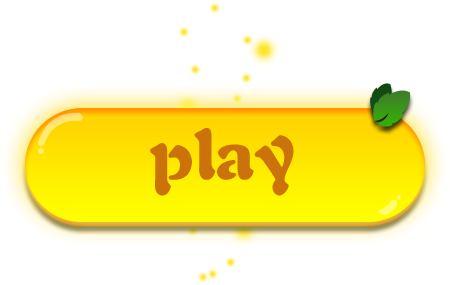
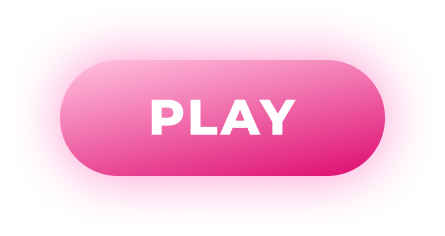
Updated splash screen. Deleted useless files.

diff --git a/src/scenes/splash_screen.js b/src/scenes/splash_screen.js
@@ -15,6 +15,7 @@ export default class SplashScreen extends Phaser.Scene {
         console.log("splash_screen - Executing preload()");
         // Carichiamo gli asset grafici
         this.load.image("background_base", "assets/images/background/background.jpg"); // carica l'immagine di sfondo
+        this.load.image("background_splash_screen", "assets/images/background/splash_screen.jpg"); // carica l'immagine di sfondo
 
         // Carichiamo l'immagine del giocatore in formato spritesheet (ci servirà nelle prossime scene)
         const player_spritesheet_config = {
@@ -40,12 +41,12 @@ export default class SplashScreen extends Phaser.Scene {
         console.log("splash_screen - Executing create()");
 
         // Posizioniamo gli elementi nella scena
-        this.background = this.add.image(0, -280, "background_base");
+        this.background = this.add.image(0, 0, "background_splash_screen");
         this.background.setOrigin(0,0);
 
-        //creo una immagine per il bottone. NB NON SEGUITE I TUTORIAL PER PHASER2, è stata completamente cambiata e non funzionano più
-        this.playbutton = this.add.image(this.game.config.width/2, this.game.config.height/2, "playButton");
-        this.playbutton.setOrigin(0.5, 0.5);
+        //creo una immagine per il bottone
+        this.playbutton = this.add.image(this.game.config.width - 440, this.game.config.height / 2 + 128, "playButton");
+        this.playbutton.setOrigin(0, 0);
         this.playbutton.setInteractive(); //imposta l'immagine in modo che possa essere cliccata
 
         this.playbutton.on("pointerdown", () => { //quando viene clickato il bottone succedono cose

diff --git a/src/components/player.js b/src/components/player.js
@@ -114,7 +114,7 @@ export default class Player extends Phaser.GameObjects.Sprite {
         if ((this.keySpace.isDown || this.keyW.isDown || this.cursorKeys.up.isDown) && this.y >= this.displayHeight && !this.isJumping && this.body.touching.down) {
             console.log(this.y + "   " + this.displayHeight + "   " + this.floorHeight);
             this.isJumping = true;
-            this.body.setVelocityY(-800);  // Salto (caso con l'introduzione della fisica)
+            this.body.setVelocityY(-550);  // Salto (caso con l'introduzione della fisica)
         }
 
         // Se il giocatore non sta premendo la barra spaziatrice e il personaggio è con

diff --git a/index.html b/index.html
@@ -5,7 +5,7 @@
         <script src="lib/phaser.min.js"></script>
         <script type="module" src="src/main.js"></script>
     </head>
-    <body style="background-color:black;">
+    <body style="background-color:rgb(0, 0, 0);">
         <div id="game_area" style="text-align:center;"></div>
     </body>
 </html>
